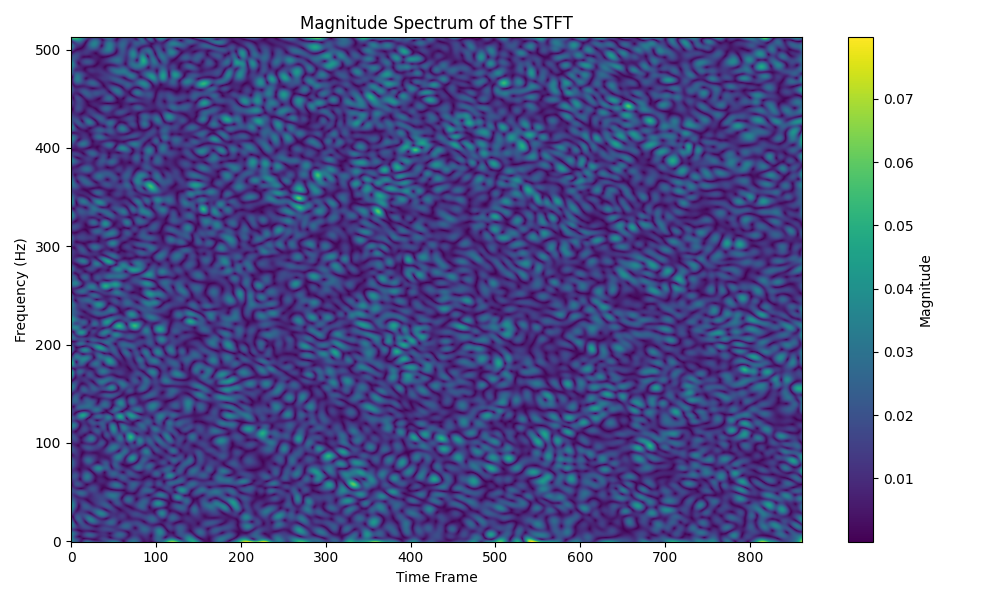
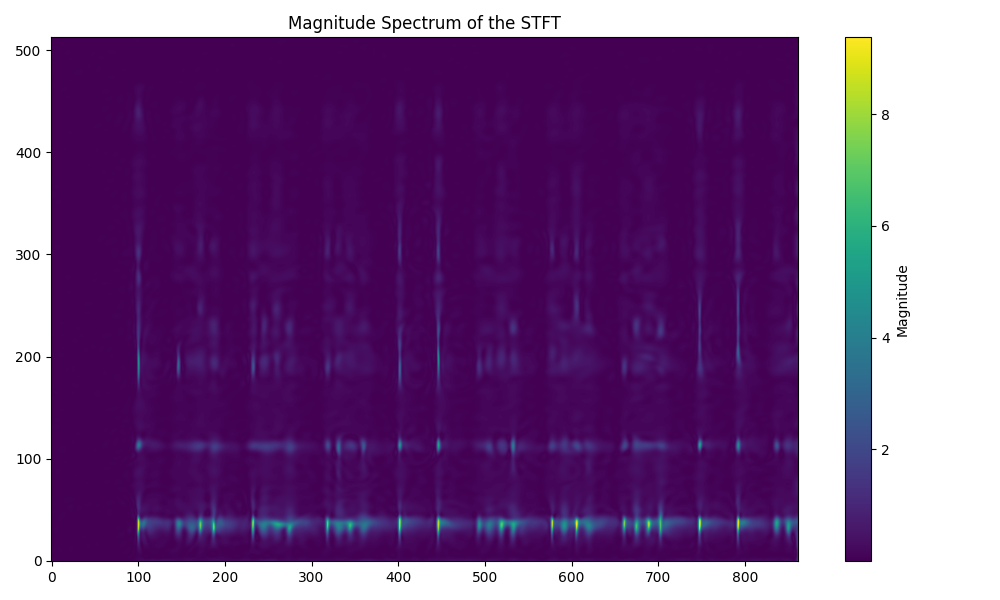
changed spectrogram script to fit magnitude only

diff --git a/siren_utils.py b/siren_utils.py
@@ -26,6 +26,26 @@ import auraloss
 
 from torchsummary import summary
 
+
+class ReLU(nn.Module):
+    def __init__(self, in_features, hidden_features, hidden_layers, out_features):
+        super().__init__()
+        
+        self.net = []
+        self.net.append(nn.Linear(in_features, hidden_features, nn.LeakyReLU(0.01)))
+
+        for i in range(hidden_layers):
+            self.net.append(nn.Linear(hidden_features, hidden_features, nn.LeakyReLU(0.01)))
+
+        self.net.append(nn.Linear(hidden_features, out_features)) 
+
+        self.net = nn.Sequential(*self.net)
+    
+    def forward(self, coords):
+        coords = coords.clone().detach().requires_grad_(True) # allows to take derivative w.r.t. input
+        output = self.net(coords)
+        return output, coords      
+    
 class SineLayer(nn.Module):
     # See paper sec. 3.2, final paragraph, and supplement Sec. 1.5 for discussion of omega_0.
     
@@ -203,7 +223,9 @@ class SpectrogramFitting(Dataset):
         # self.spectrogram = transform(torch.tensor(self.data))
         self.window = torch.hann_window(n_fft)
         self.stft_complex = torch.stft(self.data, n_fft = n_fft, window=self.window, return_complex = True)
-        self.stft_real = torch.view_as_real(self.stft_complex)
+        
+        # self.stft_real = torch.view_as_real(self.stft_complex)
+        self.stft_real = np.abs(self.stft_complex)
 
         # Convert the spectrogram to dB scale - this compresses the range of the data
         # self.spectrogram = torchaudio.transforms.AmplitudeToDB()(self.spectrogram)
@@ -217,11 +239,12 @@ class SpectrogramFitting(Dataset):
         print("min spectrogram: ", self.stft_real.min())
 
         # The shape of the spectrogram defines the sidelength
-        (height, width, dim) = self.stft_real.shape
+        # (height, width, dim) = self.stft_real.shape
+        height, width = self.stft_real.shape
 
         print("height: ", height)
         print("width: ", width)
-        print("dim: ", dim)
+        # print("dim: ", dim)
 
         height_norm = torch.linspace(-1, 1, steps = height)
         width_norm = torch.linspace(-1, 1, steps = width)
@@ -244,7 +267,10 @@ class SpectrogramFitting(Dataset):
         print("Final grid shape: ", combined_grid.shape)
 
         self.coords = combined_grid.reshape(height * width, -1)
-        self.pixels = self.stft_real.reshape(-1, 2)
+
+        # the last dimension need to be changed for magnitude or complex representations
+        self.pixels = self.stft_real.reshape(-1, 1)
+        # self.pixels = self.stft_real
 
         print("coords shape: ", self.coords.shape)
         print("specs shape: ", self.pixels.shape)
@@ -257,18 +283,8 @@ class SpectrogramFitting(Dataset):
             raise IndexError
         return self.coords, self.pixels
 
-def visualize_stft(stft_result, savename, fs = 44100, cmap='viridis'):
-    """
-    Visualize the magnitude spectrum of the STFT result.
+def visualize_stft(stft_result, savename, cmap='viridis'):
 
-    Parameters:
-    - stft_result: The output tensor from torch.stft(), expected shape is (batch, freq_bins, time_frames, 2)
-    - fs: Sampling frequency of the original signal to calculate the frequency axis.
-    - cmap: Colormap for the magnitude spectrum plot.
-
-    Note: This function assumes stft_result is the output of torch.stft() for a single signal (batch size of 1).
-    """
-    # Assuming stft_result is for a single signal, squeeze out the batch dimension
     print("stft shape: ", stft_result.shape)
     stft_magnitude = np.abs(stft_result.detach().numpy())
 
@@ -277,8 +293,8 @@ def visualize_stft(stft_result, savename, fs = 44100, cmap='viridis'):
     plt.imshow(stft_magnitude, origin='lower', aspect='auto', cmap=cmap)
 
     plt.colorbar(label='Magnitude')
-    plt.xlabel('Time Frame')
-    plt.ylabel('Frequency (Hz)')
+    # plt.xlabel('Time Frame')
+    # plt.ylabel('Frequency (Hz)')
     plt.title('Magnitude Spectrum of the STFT')
     plt.tight_layout()
     plt.savefig(savename)

diff --git a/run_experiments_spectrogram.py b/run_experiments_spectrogram.py
@@ -17,12 +17,16 @@ def train(inst, num_hidden_features=256, num_hidden_layers=6, omega=30, total_st
     filename = f'data/{inst}.wav'
     # input_audio = AudioFile(filename, duration=10) # Hardcoded input length as 10 seconds
     input_spec = SpectrogramFitting(filename, duration=5)
-    (height, width, dim) = input_spec.stft_real.shape
+    # (height, width, dim) = input_spec.stft_real.shape
+    height, width = input_spec.stft_real.shape
 
     dataloader = DataLoader(input_spec, shuffle=True, batch_size = 1, pin_memory=True, num_workers=4)
 
-    model = Siren(in_features=2, out_features=2, hidden_features=num_hidden_features, 
-                  hidden_layers=num_hidden_layers, first_omega_0=omega, outermost_linear=True)
+    model = Siren(in_features=2, out_features=1, hidden_features=num_hidden_features, 
+                 hidden_layers=num_hidden_layers, first_omega_0=omega, outermost_linear=True)
+
+    # model = ReLU(in_features=2, out_features=2, hidden_features=num_hidden_features, hidden_layers=num_hidden_layers)
+    
     model.cuda()
     summary(model)
 
@@ -74,10 +78,12 @@ def train(inst, num_hidden_features=256, num_hidden_layers=6, omega=30, total_st
     final_model_output, _ = model(model_input)
     print("model output shape ", final_model_output.shape)
 
-    spec_recovered = final_model_output.reshape(height, width, dim) * input_spec.scale
-    spec_recovered = torch.view_as_complex(spec_recovered)
+    # perform scaling 
+    print("spectrogram scaling factor: ", input_spec.scale)
+    spec_recovered = final_model_output.reshape(height, width) * input_spec.scale
+    # spec_recovered = torch.view_as_complex(spec_recovered)
 
-    visualize_stft(input_spec.stft_complex, "original_stft.png")
+    visualize_stft(input_spec.stft_complex / input_spec.scale, "original_stft.png")
     visualize_stft(spec_recovered.cpu(), "fitted_stft.png")
     
     signal_recovered = torch.istft(spec_recovered.cpu(), n_fft = 1024, window = input_spec.window)
@@ -95,7 +101,7 @@ if __name__ == "__main__":
 
 
     filename = 'castanets'
-    train(filename)
+    train(filename, total_steps = 1000)
 
    
     # configurations = [
